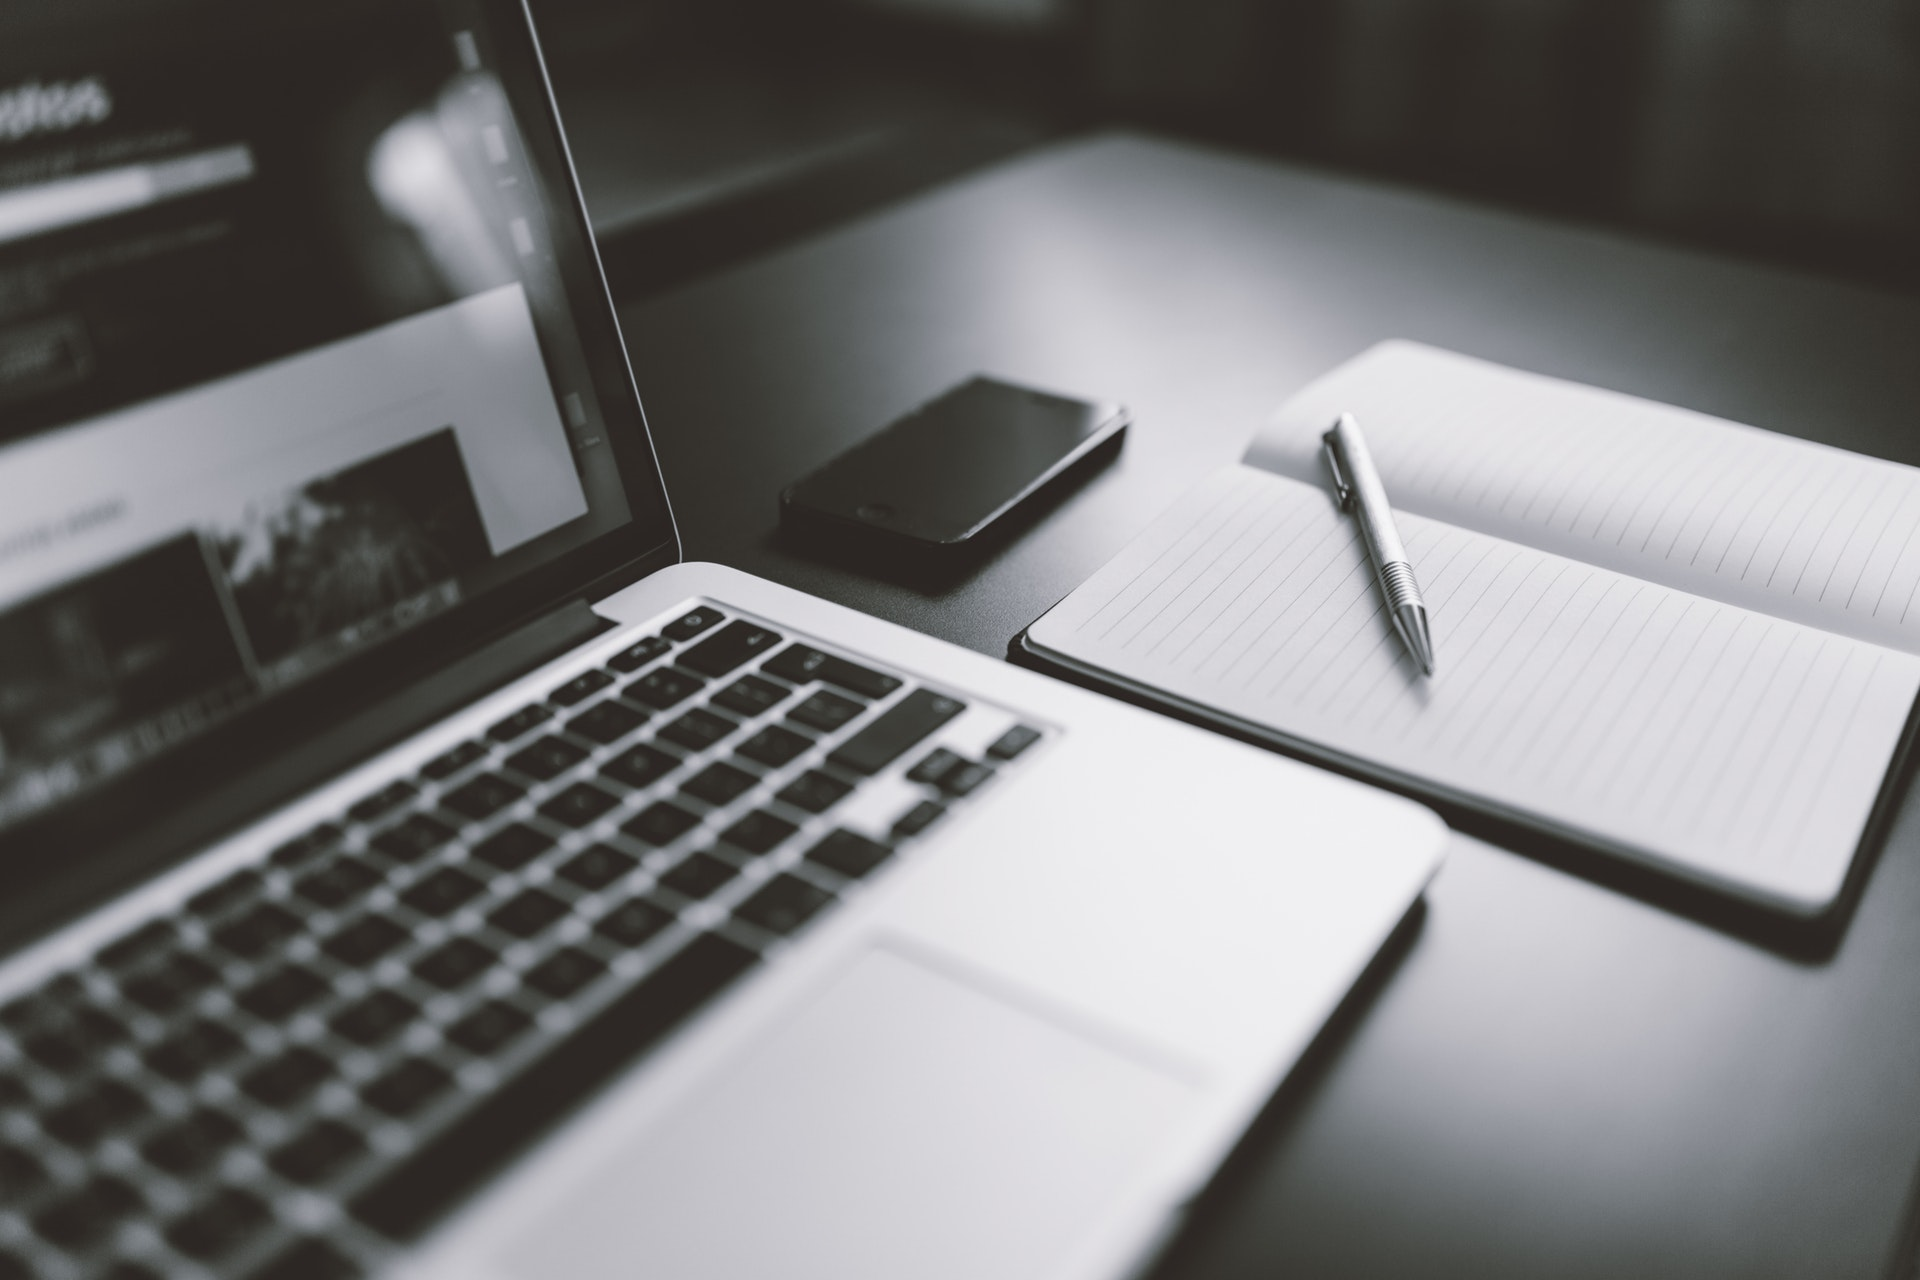
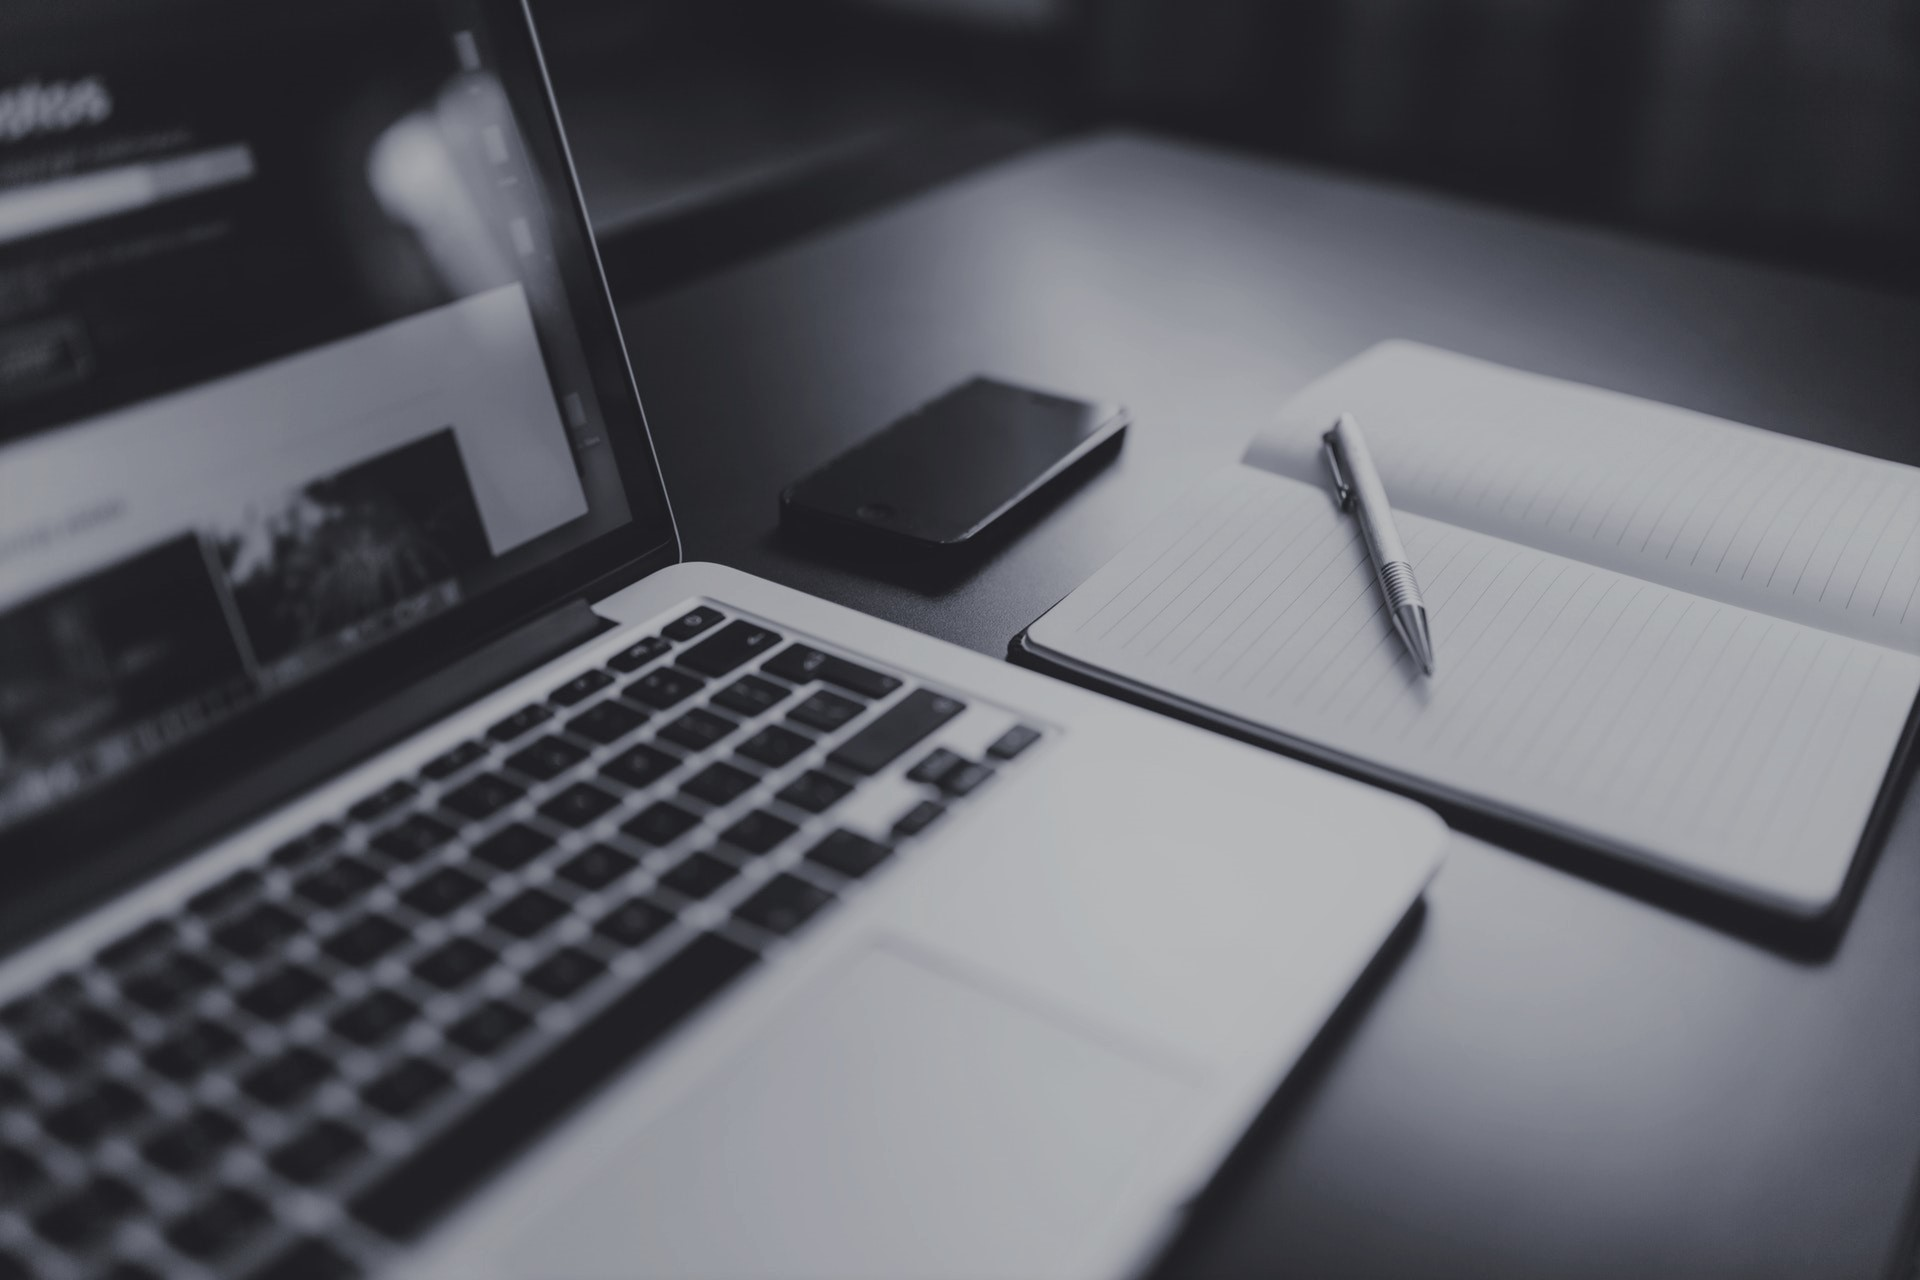
about me changes, background image changes

diff --git a/about.html b/about.html
@@ -41,7 +41,25 @@
       </nav>
 
       <!--- Body content-->
-     <div class="container" id="mainContainer">
+
+      <div class="widget center">
+
+        <div class="blur"></div>
+
+        <div class="text center">
+          <h1>About Me</h1>
+          <hr>
+          <p>I’m Seth Harmer, out of Sydney, Australia.</p>
+
+          <p>I am currently studying Web Design and this website is my portfolio, also my first project to test the things I have learnt thus far. I started to pursue IT in 2014 by gaining a certification in Network Administration, and have since worked numerous support roles within the industry. I’m always looking to expand my knowledge and to learn something new, which is what brought me to Web Design.</p>
+
+          <p>In my spare time I love to play video games, which all began with the Nintendo 64 in 1998. Picking up the guitar occasionally passes the time, but getting out for a beer on the weekends is always a plus, just as long as it’s a VB (the Very Best).</p>
+        </div>
+
+      </div>
+
+
+     <!-- <div class="container" id="mainContainer">
         <h1>About Me</h1>
 
 
@@ -50,7 +68,7 @@
             <p>I am currently studying Web Design and this website is my portfolio, also my first project to test the things I have learnt thus far. I started to pursue IT in 2014 by gaining a certification in Network Administration, and have since worked numerous support roles within the industry. I’m always looking to expand my knowledge and to learn something new, which is what brought me to Web Design.</p>
 
             <p>In my spare time I love to play video games, which all began with the Nintendo 64 in 1998. Picking up the guitar occasionally passes the time, but getting out for a beer on the weekends is always a plus, just as long as it’s a VB (the Very Best).</p>
-    </div>
+    </div> -->
 
   <!-- Scripts -->
   <script

diff --git a/css/about.css b/css/about.css
@@ -32,7 +32,70 @@ a:visited {
 }
 
 
-#mainContainer {
+
+body {
+  background: url('../images/photo.jpg') no-repeat center center fixed;
+  background-size: cover;
+}
+
+.blur {
+  background: url('../images/photo.jpg') no-repeat center center fixed;
+  background-size: cover;
+  overflow: hidden;
+  filter: blur(10px);
+  position: absolute;
+  height: 700px;
+  top: -50px;
+  left: -50px;
+  right: -50px;
+  bottom: -50px;
+}
+
+.widget {
+  border-top: 2px solid rgba(255, 255, 255, .5);
+  border-bottom: 2px solid rgba(255, 255, 255, .5);
+  border-right: 2px solid rgba(255, 255, 255, .5);
+  border-left: 2px solid rgba(255, 255, 255, .5);
+  height: 550px;
+  width: 500px;
+  overflow: hidden;
+}
+
+.center {
+  position: absolute;
+  margin: auto;
+  top: 0;
+  bottom: 0;
+  left: 0;
+  right: 0;
+}
+
+.text {
+  width: 340px;
+  margin-bottom: 60%;
+  text-align: center;
+}
+
+hr {
+    width: 250px;
+    padding-bottom: 15px;
+}
+
+.text p {
+    color: #FFFFFF;
+    font-size: 16px;
+    text-shadow: 1px 1px rgba(0, 0, 0, 0.2);
+}
+
+.text h1 {
+    font-size: 50px;
+    padding-top: 10px;
+}
+
+
+
+
+/*#mainContainer {
     margin-top: 7%;
     background-color: #fff;
     background-color: rgba(255,255,255,0.8);
@@ -52,4 +115,4 @@ h1  {
     text-align: center;
     padding-bottom: 10px;
     font-weight: 700;
-}
+}*/
